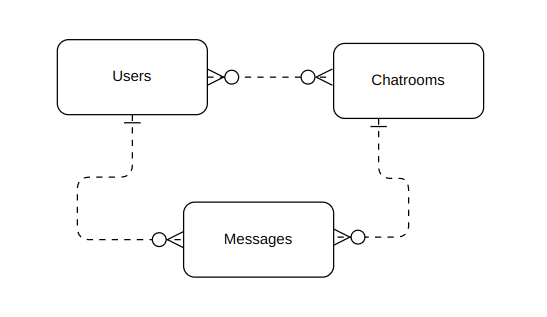
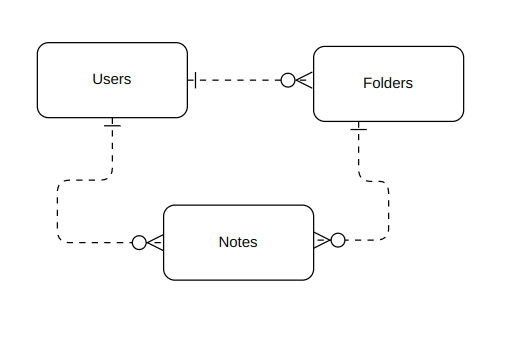
update readme's:

diff --git a/README.md b/README.md
@@ -1,16 +1,11 @@
-# chatclient
+# Notes
 
 
-## Chat Room
+## Notes
 
-A website where users can sign in to different chat rooms and chat with
-other users.
+A minimalist website where users can take/organize notes in folders.
 
-This project will require real time messaging with Socket.io
-- General tutorial, not specific to using socket.io with React https://socket.io/get-started/chat/
-- Tutorial for using socket.io with Express and React https://www.valentinog.com/blog/socket-react/
-- Back end docs https://socket.io/docs/server-api/
-- Front end docs https://socket.io/docs/client-api/
+This project will utilize Django a Django Backend Api and React frontend
 
 ### MVP User Stories
 
@@ -21,16 +16,27 @@ This project will require real time messaging with Socket.io
 - As a signed in user, I would like to sign out.
 - As a signed in user, I would like to send a chat message (socket)
 
-- As a signed in user in a room, I would like to see the messages in a chat (socket)
-- As a signed in user in a room, I would like create my own profile
-- As a signed in user in a room, I would like to update my own profile
-- As a signed in user in a room, I would like to delete my profile
+- As a signed in user I would like to create a folder with a name a description
+  
+- As a signed in user I would like to create a note with Title and content
+  
+- As a signed in user I would like to update my notes
+
+- As a signed in user I would like to update my folders
+  
+### Goals
+
+-  Use Redux or Context for state management
+-  Use Django for API
+- Nice UI using Chakra UI or other styling library
 
 ### Reach Goal(s)
 
-- Allow for users to create and join different chat rooms
-- Allow for realtime notifications on typing or unread messages
-- Allow users to send private messages.
+- Have a real text editor with fonts and bulleted lists ect to make notes
+- Incorperate file upload with notes
+- Share notes with other users
+- Collaborative notes
+  
 
 ## Route Table
 
@@ -43,42 +49,47 @@ This project will require real time messaging with Socket.io
    | PATCH  | `/change-password/` | `users # changepw`  |
    | DELETE | `/sign-out/`        | `users # signout `  |
 
-   - ### Chat
+ - ### Folders
    | Verb   | URI Pattern | Controller#Action    |
    | ------ | ----------- | -------------------- |
-   | GET    | `/chatrooms` | `chatrooms # index` |
-   | GET    | `/chatrooms/:chatroomId` | `chatrooms # show` |
-   | GET    | `/mychatrooms`| `chatrooms # personal show` |
-   | POST   | `/chatrooms` | `chatroom # add` |
-   | PATCH  | `/chatrooms/:chatroomId`  | `chatrooms # update`|
-   | DELETE | `/chatrooms/:chatroomId`  | `chatrooms # destroy`|
+   | GET    | `/folders` | `folders # index` |
+   | GET    | `/folders/:folderId` | `folders # show` |
+   | GET    | `/myfolders`| `folders # personal show` |
+   | POST   | `/folders` | `folder # add` |
+   | PATCH  | `/folders/:folderId`  | `folders # update`|
+   | DELETE | `/folders/:folderId`  | `folders # destroy`|
 
-   ## Schema
+ - ### Notes
+   | Verb   | URI Pattern | Controller#Action    |
+   | ------ | ----------- | -------------------- |
+   | GET    | `/foldes/:folderId/notes` | `notes # index` |
+   | GET    | `/folders/:folderID/notes/:noteId` | `notes # show` |
+   | POST   | `/folders/:folderID/notes` | `note # add` |
+   | PATCH  | `/folders/:folderID/notes/:noteId`  | `fnote # update`|
+   | DELETE | `/folders/:folderID/notes/:noteId`  | `fnote # destroy`|
+
+## Schema
 
  - ### User
    - email: string
        - required
        - unique
-   - name: string
-       - required
-       - unique
    - hashedPassword: string
        - required
-   - profile pick: string (url)
    - token: string
    - timestamps
 
- - ### Chatroom
+ - ### folder
    - name: string
        - required
        - unique
-   - members: [{Users}]
-   - messages: {{ message Schema}}
-   - ChatOwner: {User}
+   - description: string 
+   - notes: {{ note Schema}}
    - token: string
    - timestamps
 
- - ### Message
+ - ### note
    - author: {User}
-   - content: {String}
+   - title: String
+   - content: String
   
